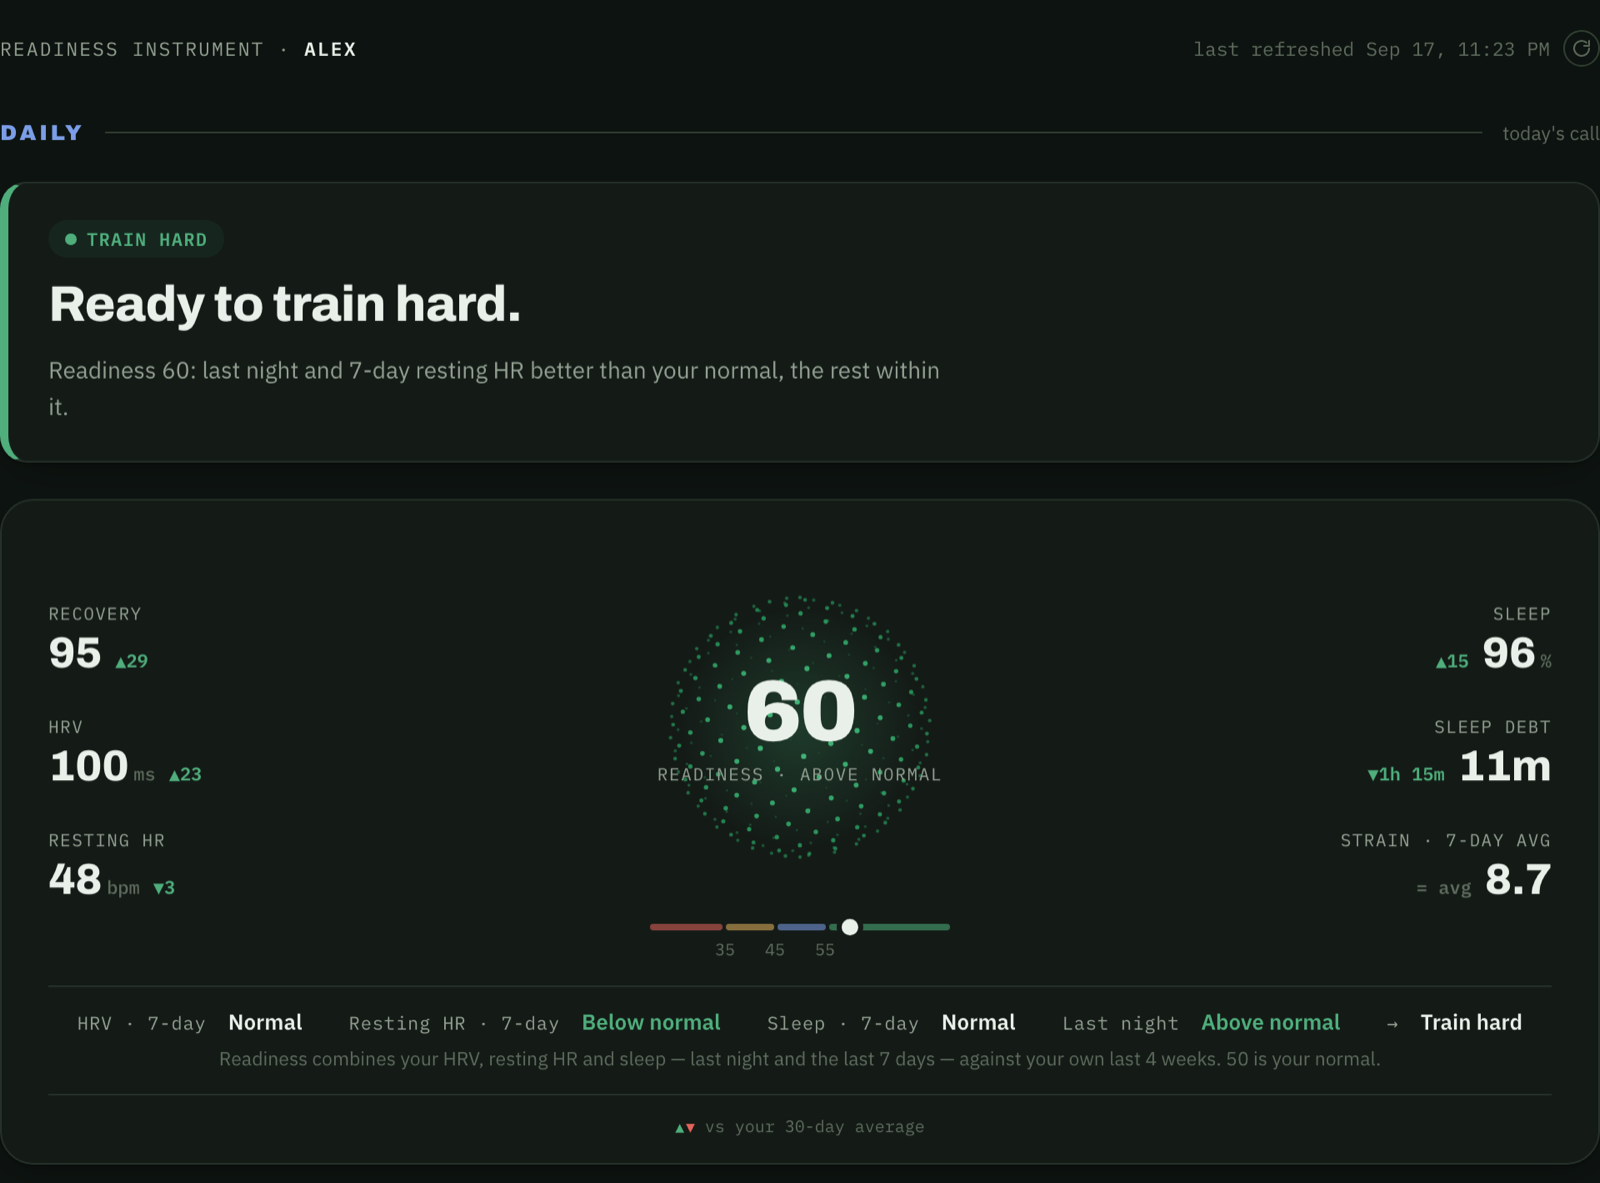
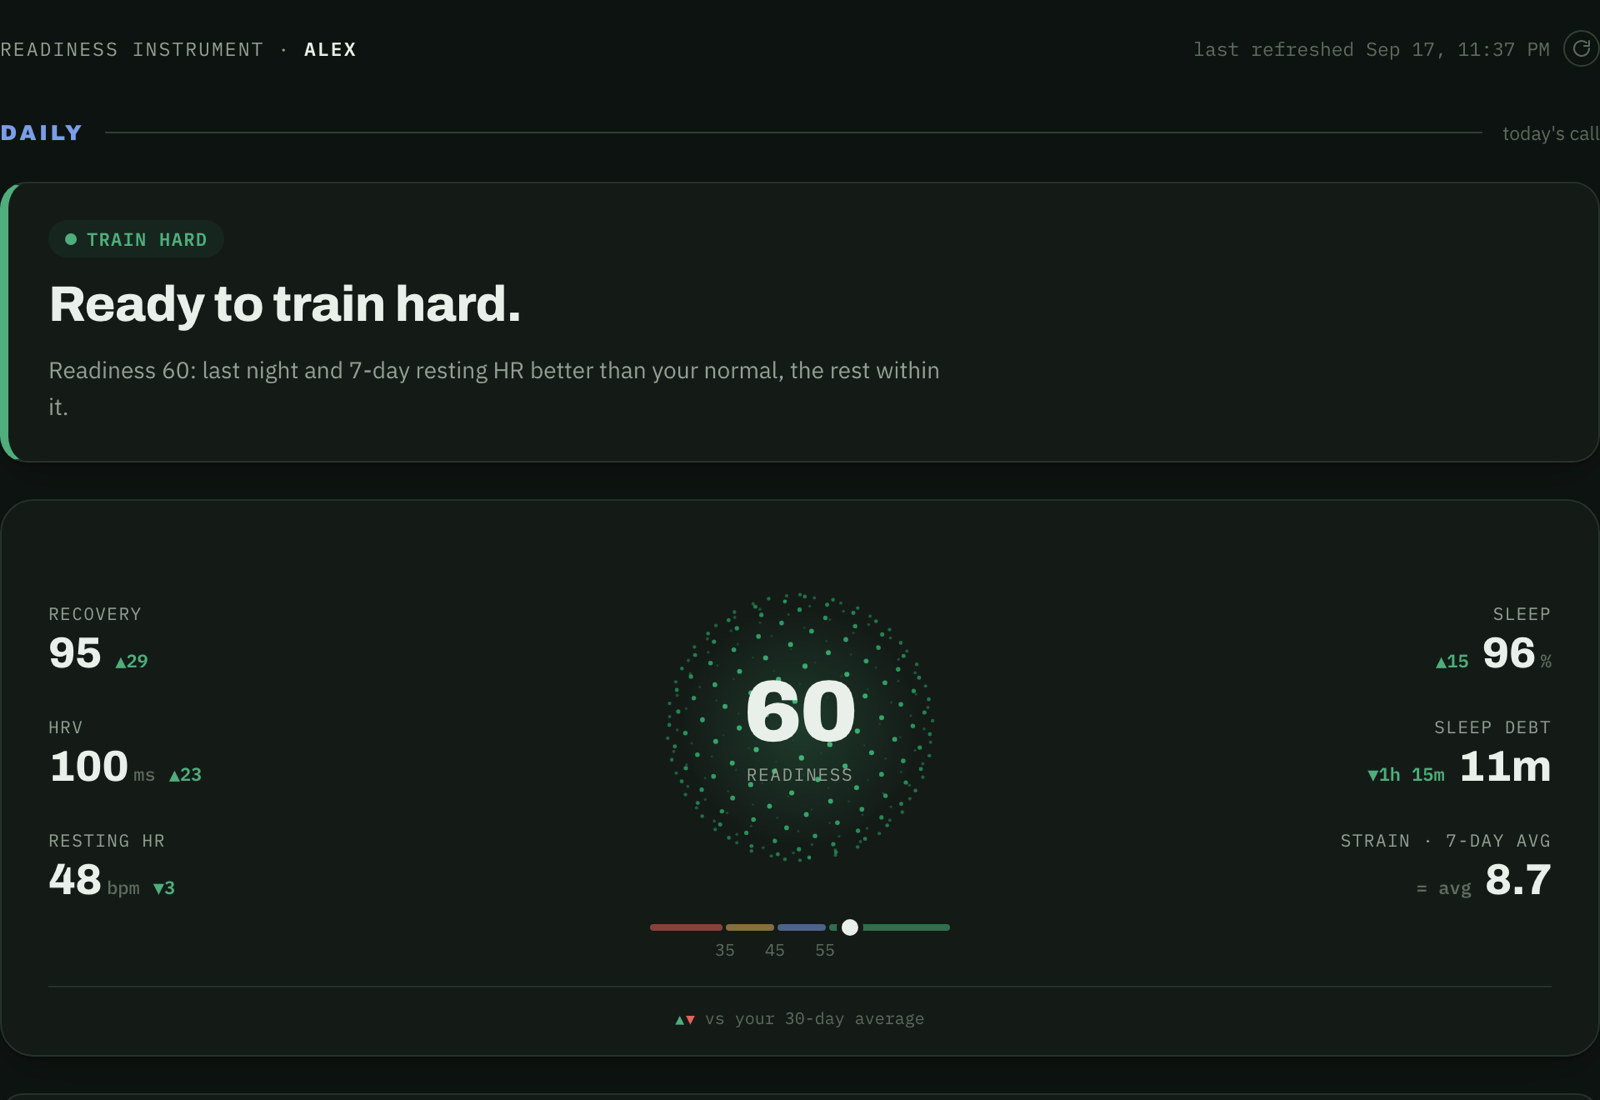
Cleaner hero, clearer readiness check, ~ for uncertain sport gaps
- The orb caption is just 'Readiness' again and the row of measures under it
  is gone; the same detail is one click away in the panel.
- 'Does this work?' becomes 'Has readiness been right?': three plain rows
  (what readiness said, how many days, recovery the next morning) with a
  sentence saying what that means. The bar chart is gone.
- Recovery cost by sport marks gaps that could be chance with ~ instead of
  the words 'not certain'.

diff --git a/dashboard_template.html b/dashboard_template.html
@@ -139,11 +139,6 @@
   .rs-marker{position:absolute;top:50%;width:10px;height:10px;margin:-5px 0 0 -5px;border-radius:50%;background:var(--ink);box-shadow:0 0 0 3px var(--surface);transition:left .6s cubic-bezier(.2,.7,.2,1);}
   .rs-ticks{position:relative;height:14px;margin-top:5px;font-family:"IBM Plex Mono",monospace;font-size:10px;color:var(--ink-faint);}
   .rs-ticks span{position:absolute;transform:translateX(-50%);}
-  .hero-halves{grid-column:1 / -1;text-align:center;padding-top:12px;border-top:1px solid var(--border);}
-  .hh-row{display:flex;justify-content:center;align-items:baseline;gap:6px 28px;flex-wrap:wrap;font-family:"IBM Plex Mono",monospace;font-size:11px;letter-spacing:0.04em;color:var(--ink-muted);}
-  .hh-row b{font-family:"IBM Plex Sans",sans-serif;font-size:13px;font-weight:600;letter-spacing:0;color:var(--ink);margin-left:6px;}
-  .hh-row b.good{color:var(--good);} .hh-row b.warn{color:var(--warn);} .hh-row b.bad{color:var(--critical);}
-  .hh-cap{margin-top:6px;font-size:11.5px;color:var(--ink-faint);}
   .hero-legend{grid-column:1 / -1;display:flex;justify-content:center;align-items:center;gap:8px;flex-wrap:wrap;
     padding-top:12px;border-top:1px solid var(--border);font-family:"IBM Plex Mono",monospace;font-size:10px;color:var(--ink-faint);}
   .hero-legend b{font-weight:600;font-size:9px;} .hero-legend .up{color:var(--good);} .hero-legend .down{color:var(--critical);margin-left:1px;}
@@ -288,7 +283,16 @@
   .more-sports summary{cursor:pointer;font-family:"IBM Plex Mono",monospace;font-size:11px;letter-spacing:0.05em;text-transform:uppercase;color:var(--ink-muted);list-style:none;}
   .more-sports summary::-webkit-details-marker{display:none;}
   .more-sports summary::before{content:"▸ ";} .more-sports[open] summary::before{content:"▾ ";}
-  .div-row{display:grid;grid-template-columns:118px 1fr 74px;align-items:center;gap:10px;padding:8px 0;}
+  .check-row{display:grid;grid-template-columns:1fr auto 104px;align-items:center;gap:12px;padding:9px 0;border-bottom:1px solid var(--border);}
+  .check-row:last-child{border-bottom:none;}
+  .check-row .k{display:flex;align-items:center;gap:8px;font-size:13px;color:var(--ink);}
+  .check-row .k .dot{width:8px;height:8px;border-radius:50%;flex-shrink:0;}
+  .check-row .d{font-family:"IBM Plex Mono",monospace;font-size:11px;color:var(--ink-faint);}
+  .check-row .v{font-family:"Archivo",sans-serif;font-weight:700;font-size:20px;text-align:right;}
+  .check-row.head{border-bottom:1px solid var(--border);padding:0 0 6px;}
+  .check-row.head .v{text-align:right;line-height:1.3;}
+  .check-row.head .k, .check-row.head .v{font-family:"IBM Plex Mono",monospace;font-size:10px;letter-spacing:0.06em;text-transform:uppercase;color:var(--ink-faint);font-weight:500;}
+  .div-row{display:grid;grid-template-columns:124px 1fr 60px;align-items:center;gap:10px;padding:8px 0;}
   .div-row .name{font-size:12.5px;color:var(--ink);display:flex;flex-direction:column;gap:1px;}
   .div-row .name .sub{font-family:"IBM Plex Mono",monospace;font-size:10px;color:var(--ink-faint);}
   .div-track{display:block;position:relative;height:10px;background:var(--surface-2);border:1px solid var(--border);border-radius:5px;}
@@ -412,10 +416,6 @@
       </div>
     </div>
     <div class="flank right" id="flankLoad"></div>
-    <div class="hero-halves" id="heroHalves" hidden>
-      <div class="hh-row" id="hhRow"></div>
-      <div class="hh-cap">Readiness combines your HRV, resting HR and sleep — last night and the last 7 days — against your own last 4 weeks. 50 is your normal.</div>
-    </div>
     <div class="hero-legend"><span><b class="up">▲</b><b class="down">▼</b> vs your 30-day average</span></div>
   </section>
 
@@ -514,10 +514,10 @@
   </section>
 
   <section class="card" id="checkCard">
-    <div class="section-head"><h2>Does this work?</h2><span class="n" id="checkDays"></span></div>
-    <div class="section-sub">Average recovery the next morning, after days with each answer.</div>
-    <div class="chart-wrap" id="checkChartWrap" style="margin-top:10px;"><div class="chart-tooltip" id="checkTooltip"></div></div>
-    <div class="section-sub" id="checkCaption" style="margin-top:8px;"></div>
+    <div class="section-head"><h2>Has readiness been right?</h2><span class="n" id="checkDays"></span></div>
+    <div class="section-sub">Every past day, grouped by what readiness said that morning, next to how you actually recovered the morning after.</div>
+    <div id="checkRows" style="margin-top:12px;"></div>
+    <div class="section-sub" id="checkCaption" style="margin-top:10px;"></div>
   </section>
 
   <section class="card">
@@ -536,7 +536,7 @@
 
   <section class="card">
     <div class="section-head"><div style="display:flex;align-items:baseline;gap:8px;flex-wrap:wrap;"><h2>Recovery cost by sport</h2><span class="beyond-badge">Beyond WHOOP</span></div><span class="n" id="sportCostMonths"></span></div>
-    <div class="section-sub">How your recovery the next morning compares after each sport, against your other training days. "Not certain" means the gap could be chance.</div>
+    <div class="section-sub">How your recovery the next morning compares after each sport, against your other training days. A ~ means the gap is approximate — it could still be chance.</div>
     <div id="sportCostRows" style="margin-top:14px;"></div>
   </section>
 
@@ -713,9 +713,7 @@ function renderDecision(){
   const R = calc.R;
   if(R){
     countUp($('orbNum'), R.score, v => String(Math.round(v)));
-    // the number is a position against your own normal, so say so in words next to it
-    const L0 = R.lines;
-    $('orbCap').textContent = 'Readiness · ' + (R.score >= L0.above ? 'above normal' : R.score >= L0.train ? 'normal' : R.score >= L0.rest ? 'below normal' : 'well below');
+    $('orbCap').textContent = 'Readiness';
     // scale from 20 to 80 (±3 SD): red under 35 · yellow 35–44 · blue 45–54 · green 55+
     const lo = 20, hi = 80, L = R.lines;
     const widths = [L.rest - lo, L.train - L.rest, L.above - L.train, hi - L.above];
@@ -730,25 +728,8 @@ function renderDecision(){
     $('readyScale').hidden = true;
   }
   drawSphere('orb', {hard:148, easy:42, rest:6, learning:222}[calc.action]);
-  renderMarkers(calc);
   renderSuggestions(calc);
   window.__readinessCalc = calc;
-}
-
-// Under the orb: each measure in words, then the score and answer.
-function renderMarkers(calc){
-  const R = calc.R, box = $('heroHalves');
-  if(!R){ box.hidden = true; return; }
-  const span = (k, v, cls) => `<span>${k} <b class="${cls}">${v}</b></span>`;
-  const word = (key, m) => m.state === 'within' ? ['Normal', ''] : [m.state === 'above' ? 'Above normal' : 'Below normal', markerWorse(key, m) ? 'warn' : 'good'];
-  const parts = ['hrv','rhr','sleep'].filter(k => R[k]).map(k => span(k === 'hrv' ? 'HRV · 7-day' : k === 'rhr' ? 'Resting HR · 7-day' : 'Sleep · 7-day', ...word(k, R[k])));
-  if(R.last_night) parts.push(span('Last night', ...(R.last_night.state === 'within' ? ['Normal', ''] : R.last_night.state === 'above' ? ['Above normal', 'good'] : ['Below normal', 'warn'])));
-  if(calc.reasons.includes('breathing')) parts.push(span('Breathing', 'Raised', 'bad'));
-  if(calc.reasons.includes('streak')) parts.push(span('Hard days in a row', `${R.hard_days_in_a_row}`, 'warn'));
-  if(calc.reasons.includes('session')) parts.push(span('Today', 'Hard session done', 'warn'));
-  parts.push(`<span class="hh-result">→ <b>${ACTIONS[calc.action].label}</b></span>`);
-  $('hhRow').innerHTML = parts.join('');
-  box.hidden = false;
 }
 
 function renderSuggestions(calc){
@@ -1393,7 +1374,7 @@ function renderSportCost(){
     return `<div class="div-row">
       <span class="name">${s.sport}<span class="sub">${s.n} ${s.n === 1 ? 'day' : 'days'} · ${INTENSITY_WORD[s.intensity] || s.intensity}</span></span>
       <span class="div-track"><span class="zero" style="left:50%"></span><span class="fill" style="left:${left}%;width:${pct}%;background:${color};"></span></span>
-      <span class="val tnum">${s.delta == null ? '—' : (s.delta>0?'+':'') + s.delta}${s.significant ? '' : '<span class="n">not certain</span>'}</span>
+      <span class="val tnum">${s.delta == null ? '—' : (s.significant ? '' : '~') + (s.delta>0?'+':'') + s.delta}</span>
     </div>`;
   };
   const top = sports.slice(0, 4), rest = sports.slice(4);
@@ -1499,16 +1480,21 @@ function renderReadinessCheck(){
   if(!C || !C.days){ card.hidden = true; return; }
   card.hidden = false;
   const label = {hard:'Train hard', easy:'Go easy', rest:'Rest'};
-  const rows = C.answers;
+  const color = {hard:'var(--good)', easy:'var(--warn)', rest:'var(--critical)'};
+  const rows = C.answers.filter(r => r.days);
   $('checkDays').textContent = `${C.days} days`;
-  barChart('checkChartWrap', 'checkTooltip', rows.map(r => label[r.answer]), rows.map(r => r.avg_next_recovery),
-    {color:'var(--accent)', decimals:0, height:150, partial: rows.map(() => !C.significant),
-     tooltipText: i => `${label[rows[i].answer]} · recovery ${Math.round(rows[i].avg_next_recovery)} · ${rows[i].days} days`});
+  $('checkRows').innerHTML = `<div class="check-row head"><span class="k">What readiness said</span><span class="d"></span><span class="v">recovery next morning</span></div>` + rows.map(r => `
+    <div class="check-row">
+      <span class="k"><span class="dot" style="background:${color[r.answer]}"></span>${label[r.answer]}</span>
+      <span class="d tnum">${r.days} days</span>
+      <span class="v tnum">${Math.round(r.avg_next_recovery)}</span>
+    </div>`).join('');
+  const best = rows.reduce((a, b) => b.avg_next_recovery > a.avg_next_recovery ? b : a, rows[0]);
   $('checkCaption').textContent = !C.enough
-    ? 'Needs at least 30 "Train hard" days and 30 other days before they can be compared.'
-    : !C.significant ? 'No clear difference yet — the gap could be chance.'
-    : C.hard_higher ? 'Recovery the next morning is higher after "Train hard" days than after Go easy or Rest days, and the gap is too large to be chance.'
-    : 'Recovery is lower after "Train hard" days — most likely because those are the days you train hard.';
+    ? 'Not enough days yet to say whether the score is telling you anything.'
+    : !C.significant ? "So far the three groups recover about the same — the score hasn't proved itself yet."
+    : C.hard_higher ? `You recover best after "Train hard" days (${Math.round(rows[0].avg_next_recovery)}) and worst after the days it told you to back off — the pattern is too clear to be chance, so the score is tracking something real.`
+    : `You recover best after "${label[best.answer]}" days, not after "Train hard" days — most likely because Train hard days are when you train hardest.`;
 }
 
 function renderRecords(){

diff --git a/chat_server.py b/chat_server.py
@@ -79,8 +79,8 @@ widely used but disputed.
 - Recovery cost by sport (dashboard_summaries.sport_recovery_cost.sports): one row per sport — \
 next-morning recovery after days that sport was the hardest session, vs all other training days, with \
 the intensity most of those days were. significant = 30+ days on both sides and Welch p < 0.05; \
-otherwise the page says "not certain".
-- "Does this work?" (readiness_check): next-morning recovery after Train hard, Go easy and Rest days; \
+otherwise the page prefixes the number with ~.
+- "Has readiness been right?" (readiness_check): next-morning recovery after Train hard, Go easy and Rest days; \
 Train hard vs the rest, same test. A consistency check, not independent proof.
 - Heart-rate zone split excludes strength sessions."""
 

diff --git a/README.md b/README.md
@@ -77,9 +77,9 @@ invent one.
 <img src="docs/screenshots/long-term.png" alt="Long-term view: recovery calendar heatmap and recovery cost by sport at the same intensity" width="880">
 
 - **Recovery calendar heatmap** of every day on record.
-- **Does this work?** — average next-morning recovery after Train hard, Go easy and Rest days,
-  and whether the gap passes a standard significance test. A consistency check
-  (recovery shares HRV and resting HR with the answer), not independent proof.
+- **Has readiness been right?** — every past day grouped by what readiness said, next to how you
+  actually recovered the morning after, and whether the gap passes a standard significance test.
+  A consistency check (recovery shares HRV and resting HR with the score), not independent proof.
 - **Recovery cost by sport** — one row per sport against your other training days, with your 4
   most-played shown and the rest in a dropdown; gaps that could be chance say so.
 - Trend explorer for any metric including readiness, personal records, and the full training log.
@@ -218,8 +218,8 @@ WHOOP recovery are shown next to the score.
 | **Load ratio (ACWR)** | Average strain over the last 7 calendar days ÷ last 28 (21+ days of data); bands 0.8 / 1.3 / 1.5 | Gabbett 2016 — predictive value disputed by [Impellizzeri et al., 2020](https://www.researchgate.net/publication/341936245_AcuteChronic_Workload_Ratio_Conceptual_Issues_and_Fundamental_Pitfalls) |
 | **Sleep** | Nights in the last 7 with 7+ hours asleep | [AASM & Sleep Research Society, Watson et al., 2015](http://jcsm.aasm.org/doi/10.5664/jcsm.4758) |
 | **Rest day** | The last finished day with no logged workout — a fact, no threshold | — |
-| **Sport recovery cost** | One row per sport: next-morning recovery after days that sport was your hardest session, vs all your other training days, with the intensity most of those days were. Your 4 most-played sports are shown, the rest in a dropdown; a gap counts as real only with 30+ days on both sides and Welch's t-test p < 0.05, otherwise it is marked "not certain" | Standard statistical conventions |
-| **Does this work?** | Next-morning recovery after Train hard, Go easy and Rest days; Train hard vs the rest tested the same way | Standard statistical conventions |
+| **Sport recovery cost** | One row per sport: next-morning recovery after days that sport was your hardest session, vs all your other training days, with the intensity most of those days were. Your 4 most-played sports are shown, the rest in a dropdown; a gap counts as real only with 30+ days on both sides and Welch's t-test p < 0.05, otherwise the number is prefixed with ~ | Standard statistical conventions |
+| **Has readiness been right?** | Next-morning recovery after Train hard, Go easy and Rest days; Train hard vs the rest tested the same way | Standard statistical conventions |
 | **▲▼ vs 30-day average** | Shown after 28 days; "= avg" when within ±0.5 SD of the last 30 days | Same smallest-worthwhile-change line as the protocol |
 
 **Honest limits.** The protocol comes from endurance-athlete trials that measured HRV on waking;
